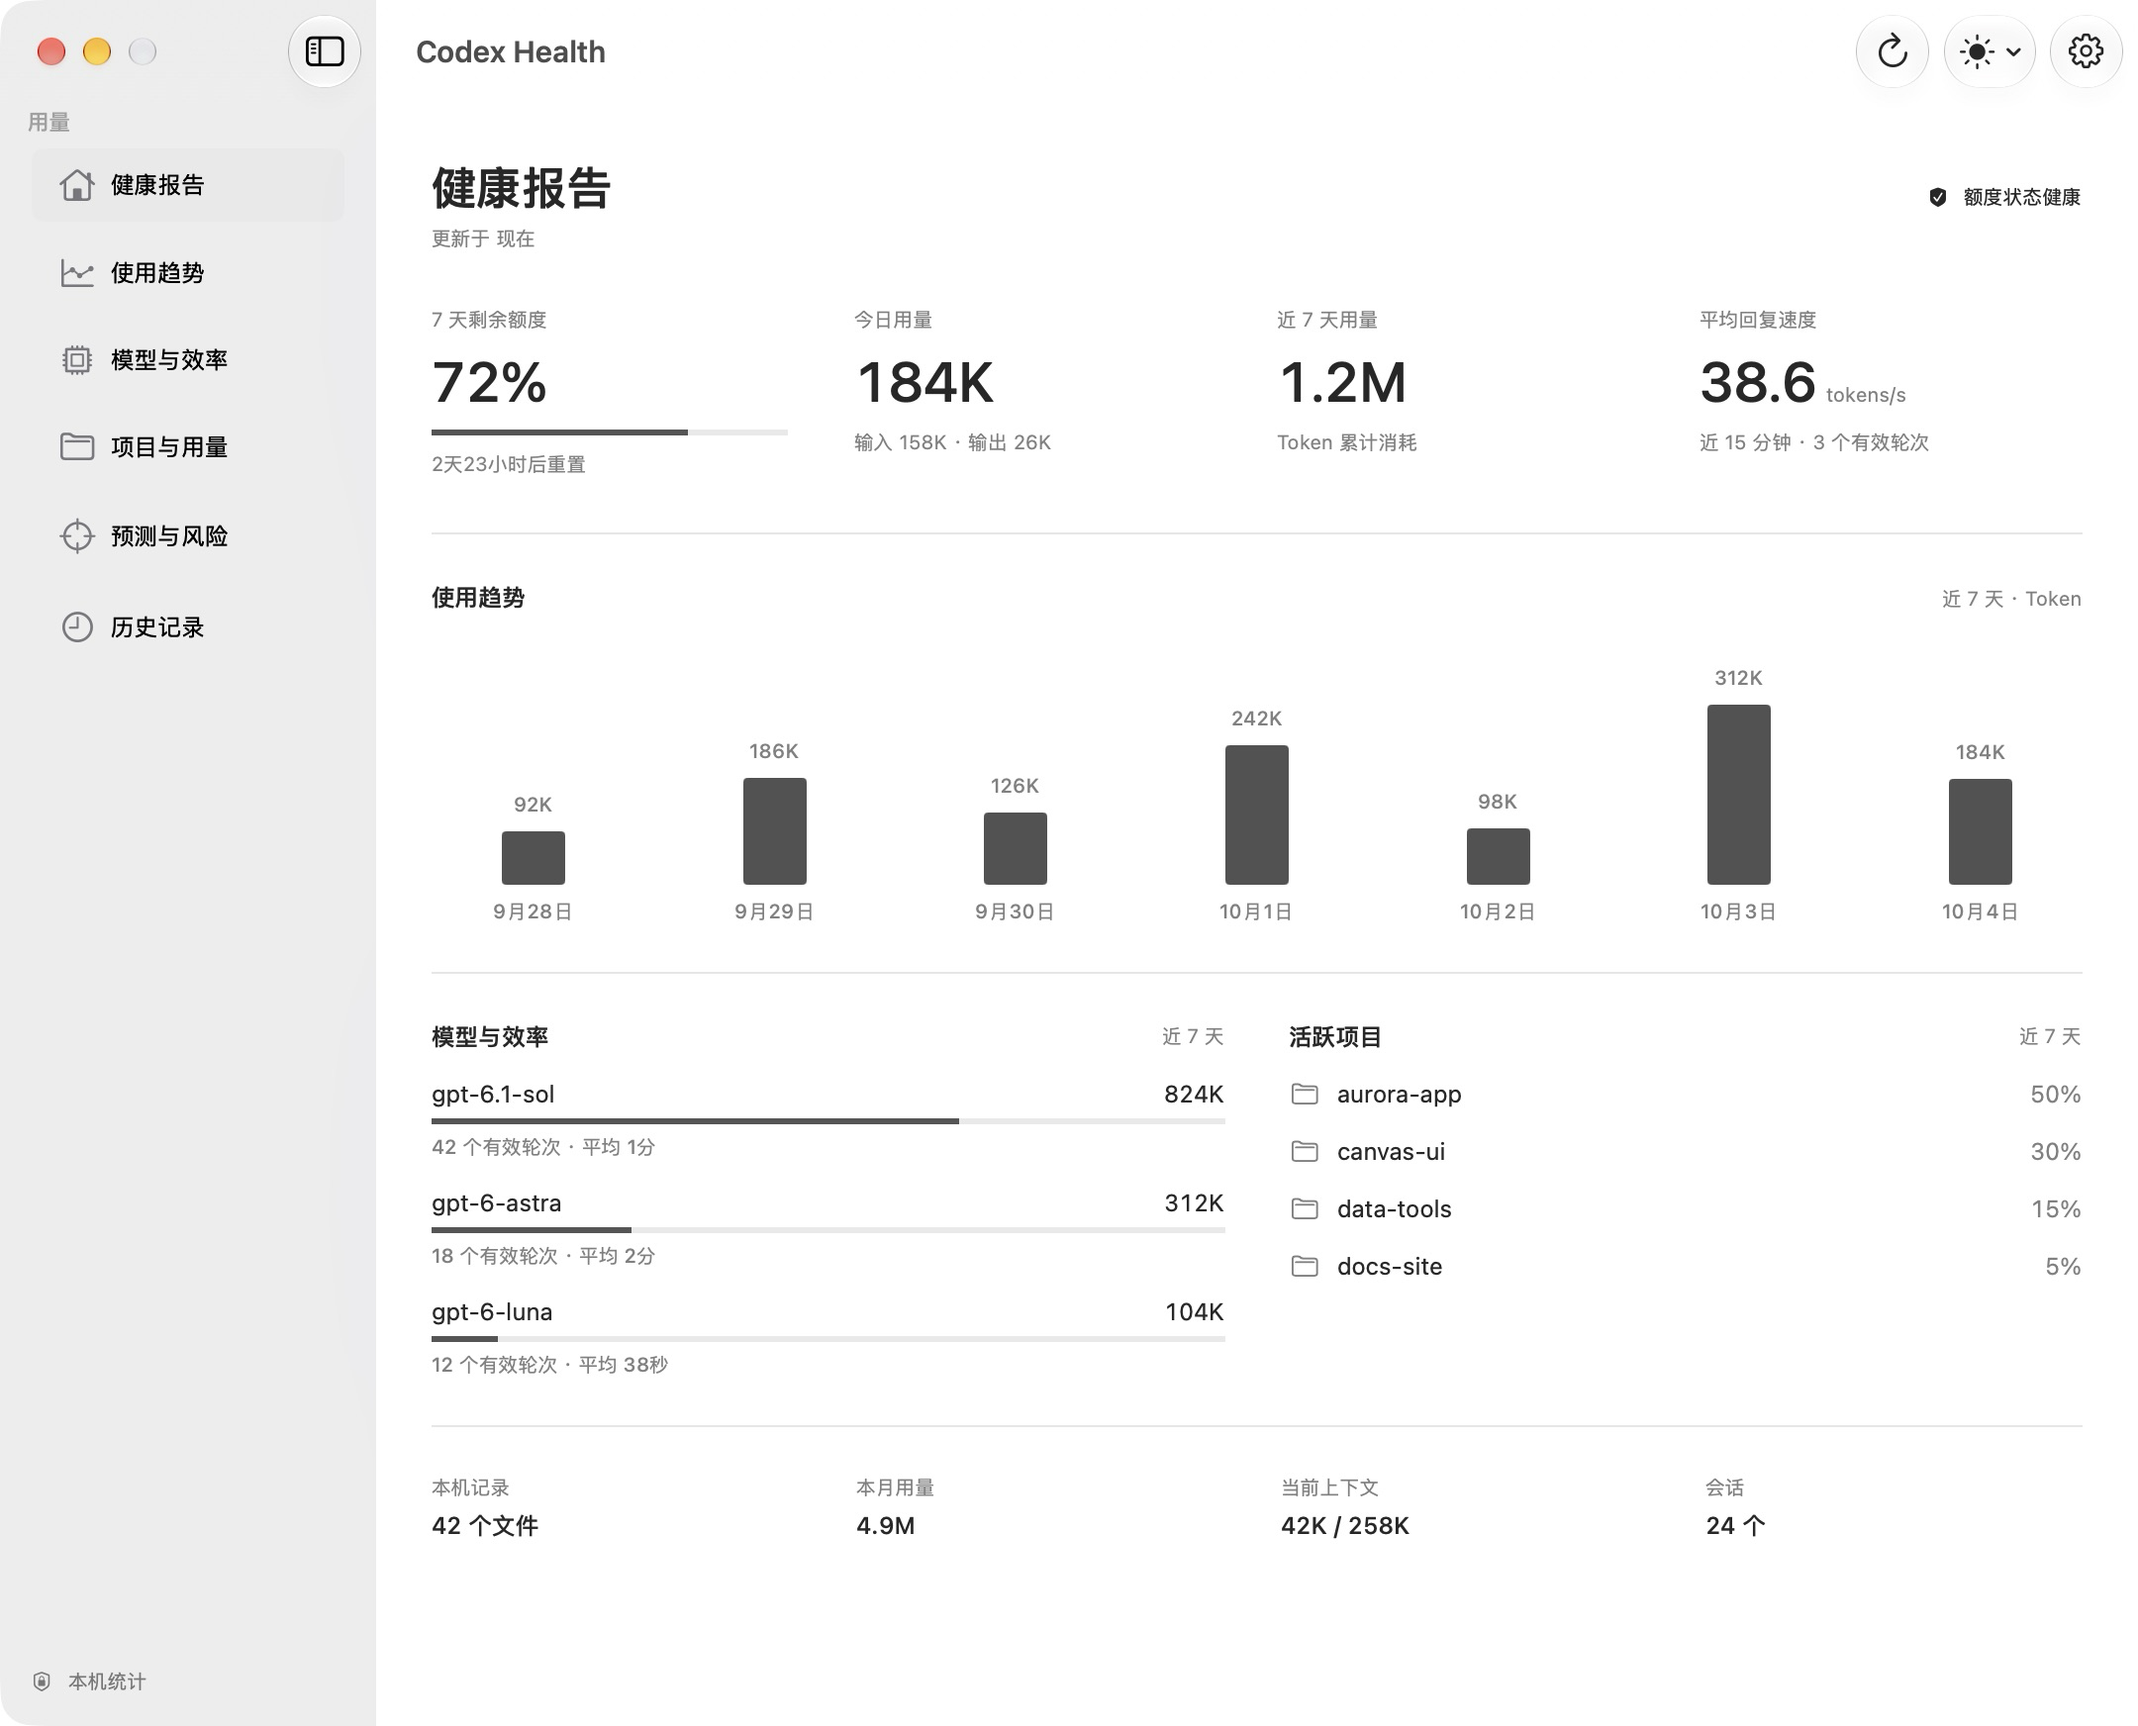
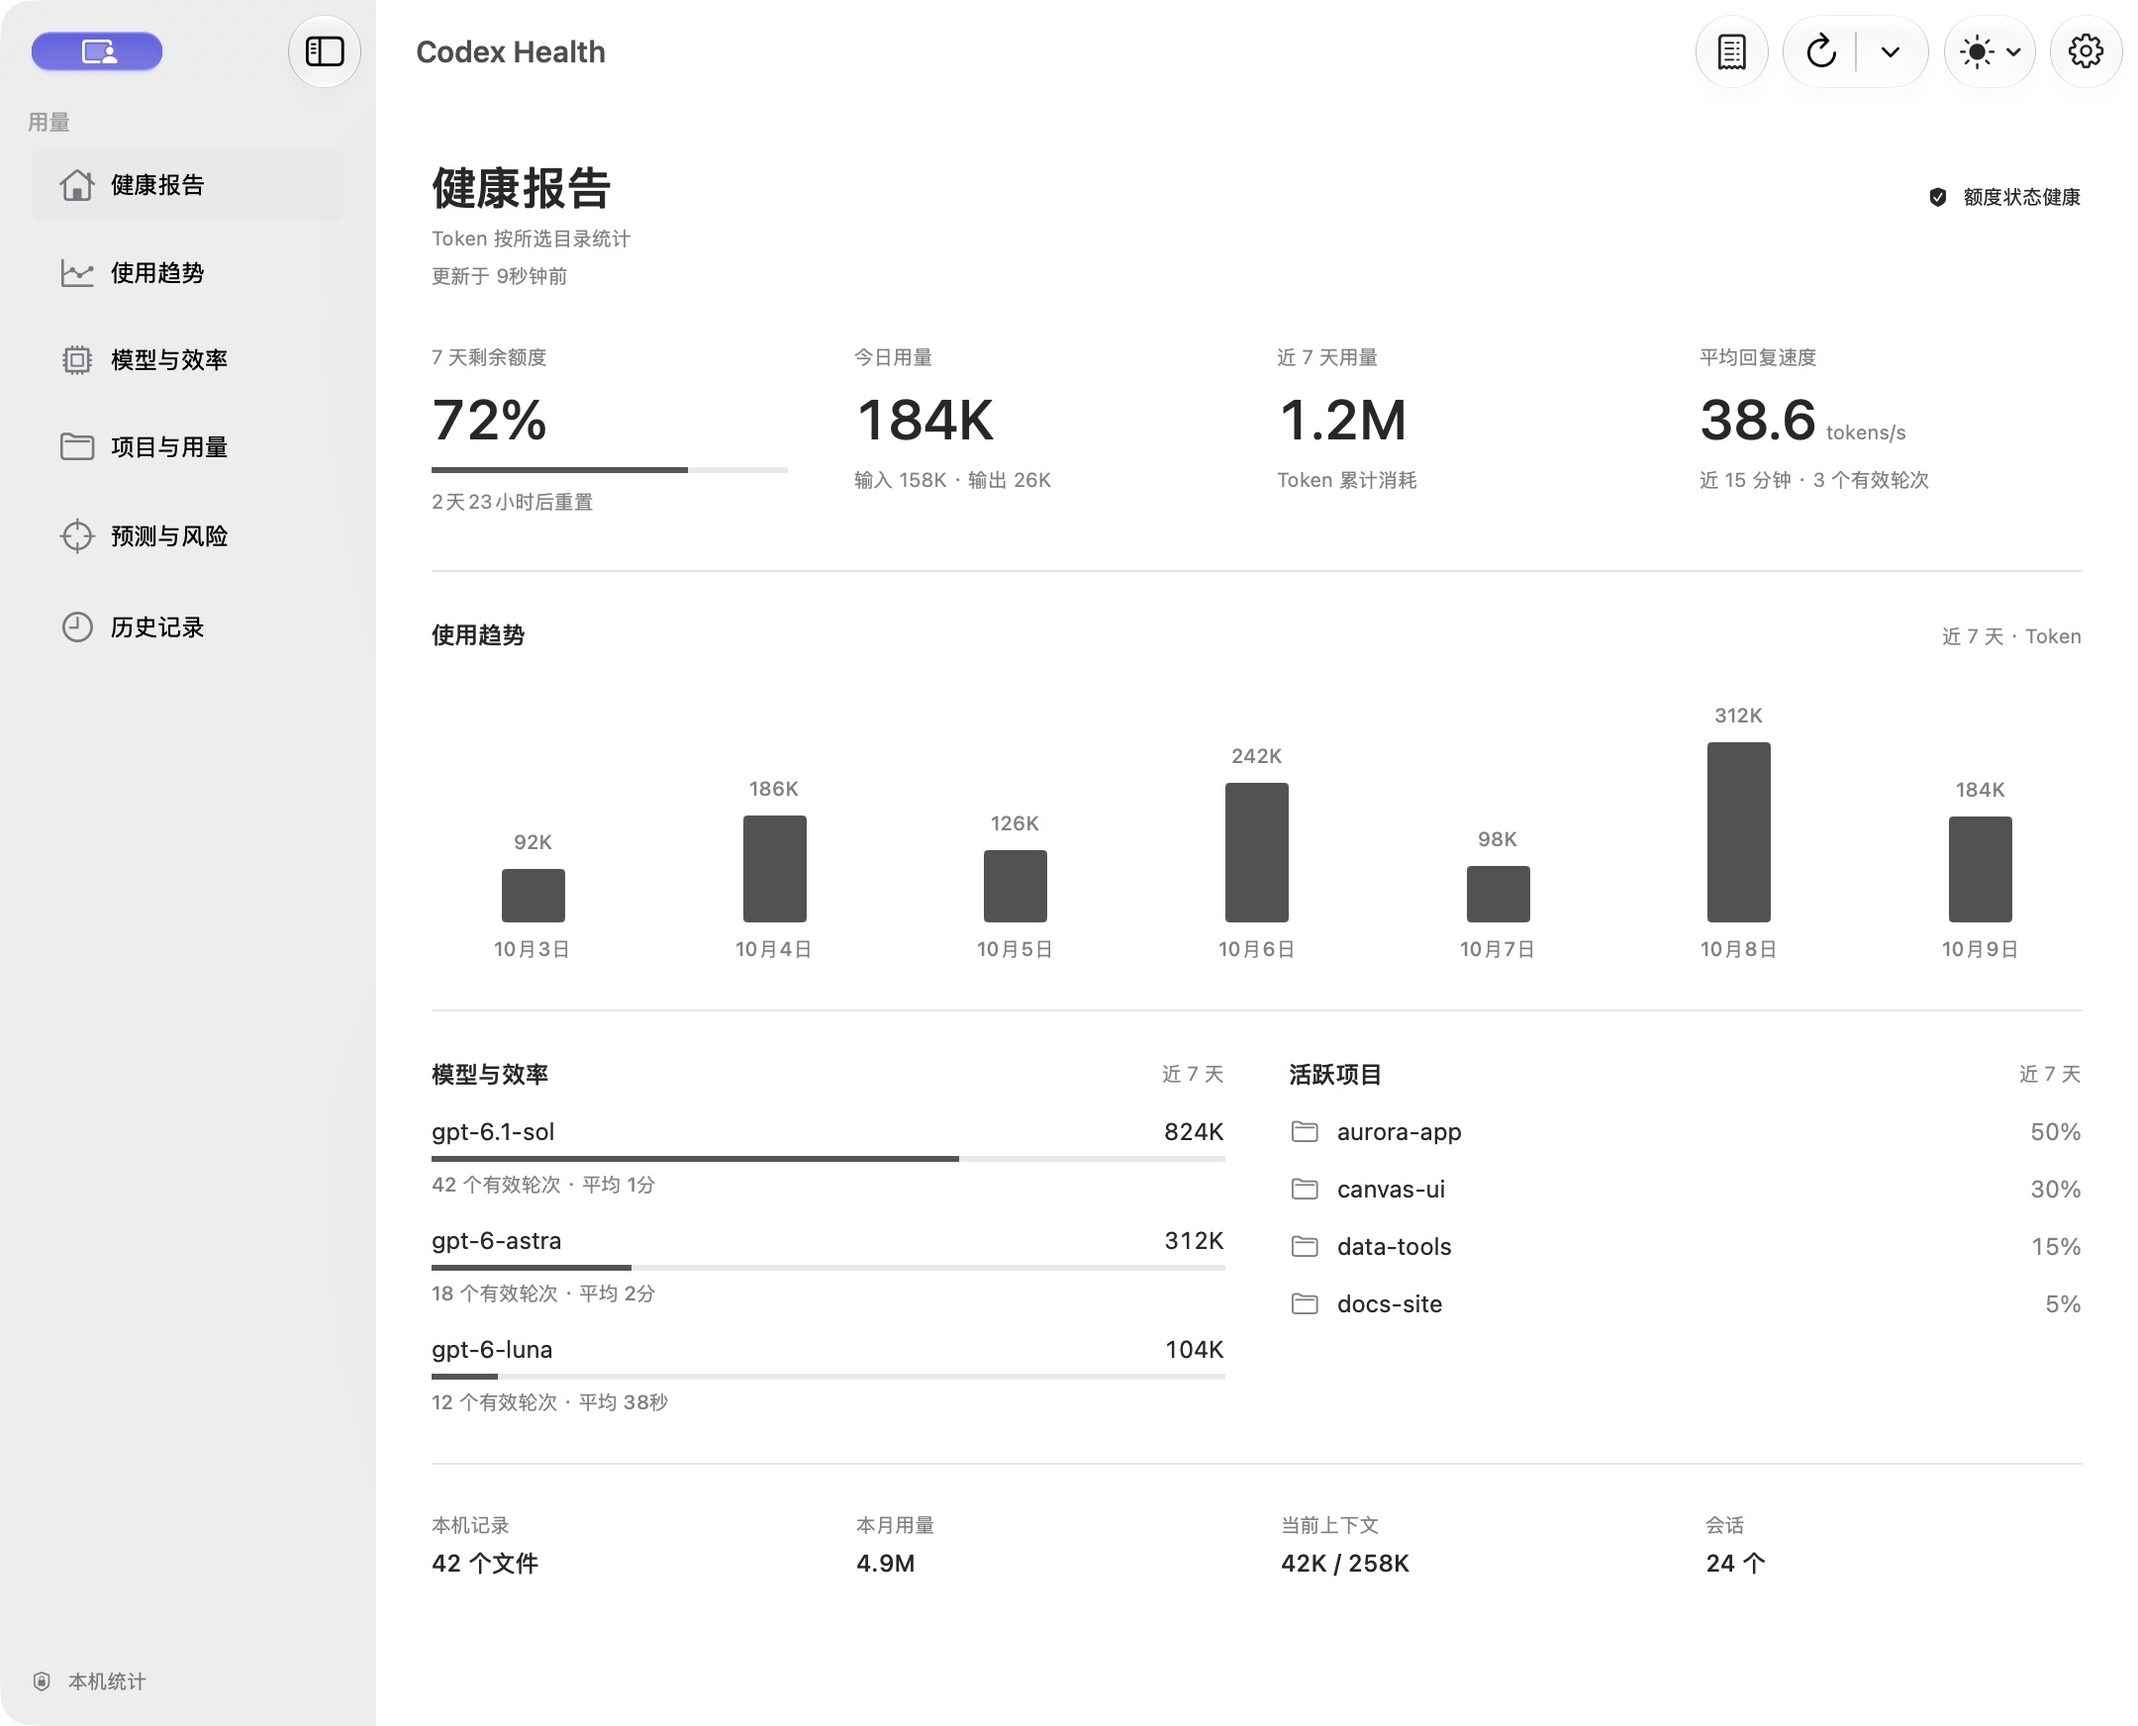
docs: refresh macOS and Windows screenshots and downloads

diff --git a/README.md b/README.md
@@ -1,6 +1,6 @@
 # Codex Health
 
-一个原生 macOS 菜单栏应用和桌面小组件，用于从本机 Codex 会话记录中查看 Token 用量、上下文与 7 天额度。
+一个从本机 Codex 会话记录中查看 Token 用量与 7 天额度的桌面工具：macOS 提供原生菜单栏应用和桌面小组件，Windows 提供 Dashboard 与额度悬浮球。
 
 界面采用「外围 Liquid Glass + 内部极简 Flat Content」：侧栏和工具栏使用系统材质，数据、图表和列表保持黑白灰扁平布局。支持浅色、深色和跟随系统外观；macOS 26 及以上使用 Liquid Glass，较早版本使用系统材质。
 
@@ -10,11 +10,17 @@
 
 ## 下载
 
-从 [GitHub Releases](https://github.com/niujt/CodexMeter/releases/latest) 下载最新版 DMG，打开后将 `Codex Health.app` 拖入 Applications。
+| 平台 | 安装包 |
+| --- | --- |
+| macOS 15+（Intel / Apple Silicon） | [1.0.8 DMG](https://github.com/niujt/CodexMeter/releases/tag/v1.0.8)，打开后将 `Codex Health.app` 拖入 Applications |
+| Windows x64 | [0.1.1 安装包](https://github.com/niujt/CodexMeter/releases/download/windows-v0.1.1/Codex-Health-0.1.1-windows-x64-setup.exe) |
+| Windows ARM64 | [0.1.1 安装包](https://github.com/niujt/CodexMeter/releases/download/windows-v0.1.1/Codex-Health-0.1.1-windows-arm64-setup.exe) |
+
+[Windows 发布说明与校验文件](https://github.com/niujt/CodexMeter/releases/tag/windows-v0.1.1)。Windows 包未签名，原生拖动、置顶和不同 DPI 效果仍待目标机器实测。
 
 当前发布包使用本机开发签名以确保 WidgetKit 扩展能被 macOS 识别；macOS 首次打开时可能提示无法验证开发者。请前往“系统设置 → 隐私与安全性”，在页面底部找到 Codex Health 的提示后选择“仍要打开”。
 
-以下截图由当前 SwiftUI 页面和虚构演示数据生成，不包含真实项目、会话、账户记录或 Token 用量。
+以下 macOS 截图由当前 SwiftUI 页面和虚构演示数据生成，不包含真实项目、会话、账户记录或 Token 用量。
 
 ## 健康报告
 
@@ -71,6 +77,35 @@
 ## 历史记录
 
 ![Codex Health 历史记录（已脱敏）](docs/screenshots/history.png)
+
+## Windows 界面与悬浮球
+
+Windows 版沿用黑白灰 Dashboard，提供 x64 和 ARM64 安装包。
+
+以下 Windows 截图来自前端界面与虚构演示数据，悬浮球截图为原尺寸；截图不代表 Windows 原生安装、置顶或 DPI 实测结果。
+
+![Windows 健康报告：浅色模式（演示数据）](docs/screenshots/windows-dashboard.png)
+
+<details>
+<summary>查看 Windows 深色模式</summary>
+
+![Windows 健康报告：深色模式（演示数据）](docs/screenshots/windows-dashboard-dark.png)
+
+</details>
+
+### 悬浮球
+
+悬浮球显示七天剩余额度，可拖动并记住位置，双击打开 Dashboard；外观跟随主界面的浅色、深色或系统主题。没有有效额度或额度已到期时显示「—」。
+
+| 浅色悬浮球 | 深色悬浮球 |
+| --- | --- |
+| <img src="docs/screenshots/windows-floating-light.png" width="88" alt="Windows 浅色悬浮球，剩余额度 58%（演示数据）"> | <img src="docs/screenshots/windows-floating-dark.png" width="88" alt="Windows 深色悬浮球，剩余额度 58%（演示数据）"> |
+
+### 周用量小票
+
+在 Dashboard 点击「导出小票」，预览后保存纯白背景 PNG，适合分享近七天的本机 Token 用量。
+
+<img src="docs/screenshots/windows-receipt-full.png" width="320" alt="纯白周用量小票（演示数据）">
 
 ## 功能
 
